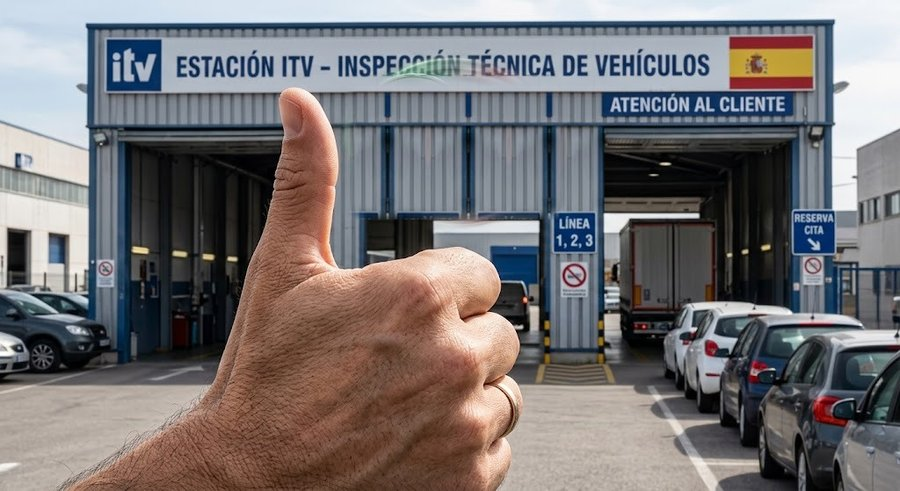
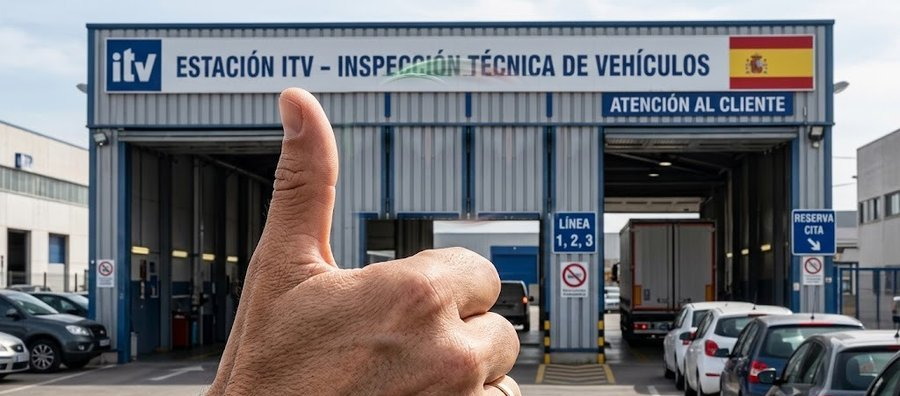
Add files via upload

diff --git a/index.html b/index.html
@@ -1,6 +1,7 @@
 <!DOCTYPE html>
 <html lang="es">
 <head>
+<!-- v613 (09/09/2026): ITV - LA FOTO, MAS PEQUENA Y RECORTADA POR EL ANILLO. JC tras ver la v612: "es muy ancho, tengo que irme muy abajo con el scroll; corta la mano a la altura del anillo y reduce la imagen". TRES COSAS: (1) itv_fondo.jpg pasa de 900x491 a 900x396 (se corta por abajo, por el anillo: fuera el puno y la muneca, se queda el pulgar y la estacion); (2) el bloque .itvFoto baja de 420 a 300px de ancho maximo y la proporcion pasa a 900/396; (3) las dos cajas #dzItv y #dzCita pierden relleno vertical (28 -> 14px) y el min-height. Las posiciones de la moneda van en % del alto, asi que se recalculan por el factor 491/396 para que siga saliendo del pulgar y cayendo en el mismo sitio de la pared. app.js NO cambia. NO requiere SQL. Sube index.html + styles.css + itv_fondo.jpg (LOS TRES: la foto cambia). cache app.js?v=613, styles.css?v=49. VUELTA ATRAS: resubir los tres de la v612 (link css a v=48). -->
 <!-- v612 (09/09/2026): ITV - FOTO REAL CON LA MONEDA APTO / NO APTO EN LAS DOS CAJAS DE SUBIDA. Viaje de diseño con JC en la misma sesion: pidio una mano lanzando una moneda con las dos caras (buena/mala); se probaron mano+moneda, documento+sello, documento+moneda y moneda sola dibujadas en SVG y NO le gusto ninguna (la mano dibujada "horrible"). Al final mando el una FOTO generada (mano con pulgar arriba delante de una estacion de ITV, con dos monedas APTO/NO APTO) y eso si le gusto. COMO ESTA HECHO: (1) fichero NUEVO itv_fondo.jpg en la raiz del repo (900px, ~95 KB): es su foto con las dos monedas pintadas TAPADAS clonando la pared, porque una foto no se puede animar; (2) encima, una moneda HECHA EN HTML/SVG con el mismo estilo (disco metalico, aro y simbolo de neon: verde APTO / rojo NO APTO) con dos caras reales en 3D (backface-visibility + rotateY), asi al girar se ven las dos. REGISTRO DE ITV (dzItv): la moneda sale del pulgar, sube, da TRES vueltas, cae con un rebote ("plin") y se queda con el APTO verde arriba = ITV pasada. Ciclo 6s. PROXIMAS CITAS (dzCita): la misma escena pero la moneda sube al aire y SE QUEDA GIRANDO sin decidirse = la incertidumbre de si la pasara (decision de JC entre tres opciones). Se sustituyen los dos iconos SVG de 120px (portapapeles v416 y balanza v418/v419) por el bloque itvFoto (max 420px de ancho, se adapta al movil). Las clases icBalanza/icBalanzaChapa y sus keyframes se DEJAN en el css sin inquilino (como se hizo con icCampana), por si se quiere volver. Reducir-movimiento: moneda quieta en verde. Las zonas de arrastrar/soltar y los inputs NO cambian. app.js NO cambia (se sube por el cache-buster). NO requiere SQL. Sube index.html + styles.css + itv_fondo.jpg (TRES: hay css y foto nuevos). cache app.js?v=612, styles.css?v=48. VUELTA ATRAS: resubir index.html + styles.css de la v611 (link css de vuelta a v=47; la foto puede quedarse). -->
 <!-- v611 (09/09/2026): ITV - EL USUARIO LOGISTICA (Manuel, socio) YA PUEDE SUBIR ITV Y CREAR CITAS. JC: "esta mirando mi socio Manuel, el usuario logistica, ve las ITV pero no puede subir ni las citas ni el registro... debe poder gestionarlo igual que Marta y Maria del Mar". Causa: la v107AF pone ITV en SOLO LECTURA a todo usuario con Taller que no sea admin (pensado para el mecanico), y la v107H1 hizo una lista blanca SOLO con los ids de Marta y Maria del Mar; Logistica (role gestor, puede_ver_itv=true, puede_ver_taller=true) no estaba y le saltaba el mismo candado. Ahora se anade su id (92687ba2-a91f-401b-b08b-f1231b83dca9, comprobado con SELECT en profiles) a la lista blanca _esOficinaITV. Una sola linea en app.js. El usuario TALLER sigue en solo lectura. NO requiere SQL. node --check OK. cache app.js?v=611. VUELTA ATRAS: resubir app.js + index.html de la v610. -->
 <!-- v610 (08/09/2026): LIQUIDACION CEMEX - NO SALIA AGOSTO EN "Revisar mes". JC: "en CEMEX subi 2 preliq. de agosto y no marca agosto y se pueden ver". Causa: factCargarMeses hacia un .select('mes') simple, que Supabase corta en 1000 filas; con mayo+junio+julio+agosto ya se pasa y agosto se quedaba fuera aunque estuviera guardado (por eso avisaba "ya la tienes subida"). Mismo fallo que Holcim arreglo en v107K15: ahora pagina en lotes de 1000 ordenando por mes y junta los meses. SOLO app.js. NO requiere SQL. node --check OK. cache app.js?v=610. VUELTA ATRAS: resubir app.js + index.html de la v609. -->
@@ -403,7 +404,7 @@ if (typeof pdfjsLib !== 'undefined') {
 <!-- v107K77 (22/06/2026): LEGIBILIDAD — el gris de textos secundarios (--mu) era demasiado oscuro y casi no se leía (ayudas, etiquetas, "Rellenar fecha rápido"...). Aclarado de #527060 a #7d9e8b en styles.css; afecta a toda la app. Reversible. Sube styles.css + index.html (app.js NO cambia). NO requiere SQL. -->
 <!-- v107K84 (23/06/2026): PARPADEO DE LA ZONA DE SOLTAR — CAUSA RAÍZ ENCONTRADA Y ARREGLADA (en el CSS, no en el JS). La zona tiene encima una capa invisible (el input de "clic para seleccionar"). Una regla apagaba esa capa justo al iluminarse la zona, lo que cambiaba el elemento bajo el cursor y hacía oscilar la iluminación → parpadeo continuo. Quitada esa regla (.dz.ov input{pointer-events:none}) en styles.css: ahora la capa se mantiene fija durante el arrastre y NO parpadea. El drop sigue bien (drop() hace preventDefault). Sube styles.css + index.html (app.js NO cambia, sigue v=177). NO requiere SQL. -->
 <!-- v304 (14/07/2026): RECAMBIOS — la IA lee ahora TAMBIÉN NUESTRO CIF (paso 1 del plan "facturas de recambios por email"). Hasta ahora la empresa de un documento de recambios NO se leía del papel: se cogía de la sub-pestaña donde se arrastra (tallerEmpresaActiva). Esto añade un campo nuevo al prompt de callClaudeRecambio ("cif_cliente" = el CIF del destinatario, NOSOTROS; distinto de proveedor_nif, que es el del emisor) y, al subir, COMPARA ese CIF con la sub-pestaña: si el CIF es de otra empresa del grupo avisa por toast y deja nota en Observaciones ("⚠ REVISAR EMPRESA: el CIF de este documento (B90172735) es de TYP2014, pero se ha subido en la pestaña de HISPALIS"); si el CIF no se pudo leer o no es de ninguna de nuestras 4 empresas, deja una nota informativa. NO cambia la empresa por su cuenta (decide Juan Carlos), NO toca la conciliación, NO toca ninguna otra pestaña. Sirve desde el día 1 para cazar facturas subidas en la empresa equivocada, y a la vez comprueba en producción si la IA lee bien el CIF en todos los proveedores — que es el requisito para poder automatizar luego la entrada por correo. Sube app.js + index.html. NO requiere SQL (la nota va en la columna observaciones, que ya existe). node --check OK. cache app.js?v=304. -->
-<link rel="stylesheet" href="styles.css?v=48">
+<link rel="stylesheet" href="styles.css?v=49">
 <!-- v302 (13/07/2026): CONFIRMING BBVA — 2 mejoras del aviso. (1) Al marcar una factura cobrada por confirming, rellena sola el campo OBSERVACIONES con "Confirming BBVA · Liquidación <cesión> · cobrado DD/MM/AAAA" (si ya había una nota, la conserva y añade la del confirming detrás; no pisa nada). (2) El aviso verde (y el ámbar de duplicado) ahora tiene un botón "✓ Visto, cerrar" que lo quita de pantalla cuando ya lo has leído (mini-función _liqCerrar). Solo toca la función de confirming; nada más cambia. Sube app.js + index.html. NO requiere SQL. cache app.js?v=302. -->
 <!-- v301 (13/07/2026): FACTURAS EMITIDAS — COBROS POR CONFIRMING BBVA. Nueva zona verde para ARRASTRAR el justificante de liquidación de BBVA (factoring). La IA lee la tabla "Detalle de los créditos" y marca COBRADAS SOLAS las facturas que casan por NÚMERO + IMPORTE (doble comprobación); fecha de cobro = fecha de liquidación (NO la "fecha pago" del deudor), forma_cobro = "Confirming BBVA". Las que NO casan (no encontrada / importe no cuadra / ambiguas) NO se tocan y se listan en rojo para revisar a mano. Candado anti-duplicados por Nº de cesión (tabla liquidaciones_confirming): si llega la misma liquidación 2 veces, no vuelve a marcar. Casa por CIF+número, así vale igual para CEMEX, Holcim o cualquier deudor por este confirming. NO toca la subida de facturas normal ni nada más. Sube app.js + index.html. REQUIERE SQL previo (columna facturas_emitidas.forma_cobro + tabla liquidaciones_confirming, ya ejecutado). cache app.js?v=301. -->
 <!-- v300 (13/07/2026): RECAMBIOS (Taller) — separación de ~5 cm entre el botón "➕ Subir albarán" (azul) y "🧾 Subir factura" (gris) para no confundirlos con las prisas (margin-left:5cm en el botón de factura). Solo espaciado; no toca nada más. Sube solo index.html (app.js NO cambia, pero al subir el ?v=300 conviene subir también app.js para que el cache-buster cuadre). NO requiere SQL. cache app.js?v=300. -->
@@ -2789,6 +2790,6 @@ if (typeof pdfjsLib !== 'undefined') {
 <!-- v514 (Juan Carlos 11/08/2026): LOS REPASOS GUARDADOS DABAN "Cannot read properties of undefined (reading 'length') AL PULSAR VER O EXCEL. Culpa de la v512: por ahorrar sitio deje fuera de lo guardado los campos que venian vacios (difs, modo, y linea/rec cuando no habia). Pero el informe hace "a.difs.length" y el Excel hace "a.linea.tn" DANDO POR HECHO que existen, asi que al abrir un repaso guardado reventaba y los botones no hacian nada. Un objeto vacio ocupa 2 bytes: no se ahorraba nada y se rompia todo. Desde la v514 lo guardado tiene SIEMPRE la misma forma que lo recien cruzado (difs siempre array, modo siempre texto, linea y rec siempre objeto). IMPORTANTE: los repasos guardados con la v512/v513 se quedaron mal por dentro; hay que volver a cruzar el mes una vez para que se guarde bien. Solo app.js + index.html. NO requiere SQL. -->
 <!-- v515 (Juan Carlos 11/08/2026): TODAS LAS FAMILIAS A LA VISTA. Las pastillas de familia iban en una fila de tabla y salia barra de desplazamiento horizontal: habia que arrastrar para ver las ultimas. Ahora cada repaso es un bloque y las pastillas se reparten en varias lineas, todas visibles de golpe; los botones VER / EXCEL COMPLETO / X tambien bajan de linea si no caben. Va junto con el arreglo de la v514 (que no llego a subirse): los repasos guardados reventaban con "Cannot read properties of undefined (reading length)" porque la v512 dejaba fuera los campos vacios y el Excel hace a.difs.length dando por hecho que existen (traza confirmada por JC: factHolcimExcelPorMaterial linea 25582). Solo app.js + index.html. NO requiere SQL. IMPORTANTE: el repaso guardado con la v512/v513 esta mal por dentro; hay que quitarlo con la X y volver a cruzar el mes una vez. -->
 <!-- v516 (Juan Carlos 11/08/2026): REPARAR AL VUELO LOS REPASOS YA GUARDADOS. La v514/v515 arreglaron como se GUARDA, pero el repaso que JC ya tenia grabado con la v512 seguia mal por dentro y seguia reventando al pulsar EXCEL: solo salia bien "Nucleo Garraf -> Puerto Barcelona", la unica familia sin abonados y por eso la unica que nunca llegaba a la linea que peta (a.difs.length). Obligar a borrarlo con la X y volver a cruzar el mes entero es un apano, no un arreglo. Ahora, al abrir o exportar, lo guardado se REPARA en memoria antes de usarse: se le devuelve la forma que espera el informe (difs array, modo texto, linea y rec objeto). Funcionan igual los repasos nuevos y los viejos, sin que el usuario tenga que hacer nada. Solo app.js + index.html. NO requiere SQL. -->
-<script src="app.js?v=612"></script>
+<script src="app.js?v=613"></script>
 </body>
 </html>

diff --git a/styles.css b/styles.css
@@ -584,10 +584,12 @@ tbody tr.row-warn:hover{background:rgba(245,166,35,.22)}
 #ovTallerMant [style*="font-size:11px"]{font-size:13px !important}
 #ovTallerMant [style*="font-size:12px"]{font-size:13.5px !important}
 #ovTallerMant [style*="font-size:14px"]{font-size:16px !important}
+/* v613: foto recortada por el anillo (900x396) y mas pequena (300px) para que la pestana no ocupe tanto alto */
+#dzItv,#dzCita{padding:14px 28px;min-height:0}
 /* v612: foto real de la ITV con la moneda APTO / NO APTO animada (Registro: cae y se queda en verde; Citas: gira sin decidirse) */
-.itvFoto{position:relative;width:100%;max-width:420px;aspect-ratio:1024/559;margin:0 auto 10px;border-radius:10px;overflow:hidden;box-shadow:0 6px 16px rgba(30,41,51,.18)}
+.itvFoto{position:relative;width:100%;max-width:300px;aspect-ratio:900/396;margin:0 auto 8px;border-radius:10px;overflow:hidden;box-shadow:0 6px 16px rgba(30,41,51,.18)}
 .itvFoto img{display:block;width:100%;height:100%;object-fit:cover}
-.itvCoinMove{position:absolute;width:15.6%;aspect-ratio:1;left:26.4%;top:12.5%}
+.itvCoinMove{position:absolute;width:15.6%;aspect-ratio:1;left:26.4%;top:15.5%}
 .itvCoinSpin{position:relative;width:100%;height:100%}
 .itvCoinFace{position:absolute;inset:0;transform:scaleX(1)}
 .itvCoinFace svg{width:100%;height:100%;display:block;filter:drop-shadow(0 4px 6px rgba(0,0,0,.45))}
@@ -597,15 +599,15 @@ tbody tr.row-warn:hover{background:rgba(245,166,35,.22)}
 .itvFotoReg .itvCoinFace{animation:itvRegCaraA 6s ease-in-out infinite}
 .itvFotoReg .itvCoinBack{animation:itvRegCaraB 6s ease-in-out infinite}
 @keyframes itvRegMueve{
-  0%,6%{left:26.4%;top:12.5%}
-  13.5%{left:28.5%;top:7.4%}
-  20%{left:30.3%;top:3.7%}
-  33%{left:34%;top:.9%}
-  46%{left:37.6%;top:5%}
-  53%{left:39.5%;top:9.6%}
-  60%{left:41.5%;top:15.2%}
-  66%{left:41.5%;top:12%}
-  72%,100%{left:41.5%;top:15.2%}
+  0%,6%{left:26.4%;top:15.5%}
+  13.5%{left:28.5%;top:9.2%}
+  20%{left:30.3%;top:4.6%}
+  33%{left:34%;top:1.1%}
+  46%{left:37.6%;top:6.2%}
+  53%{left:39.5%;top:11.9%}
+  60%{left:41.5%;top:18.8%}
+  66%{left:41.5%;top:14.9%}
+  72%,100%{left:41.5%;top:18.8%}
 }
 @keyframes itvRegCaraA{0%{transform:scaleX(1)}6%{transform:scaleX(1)}10.5%{transform:scaleX(0)}19.5%{transform:scaleX(0)}24.0%{transform:scaleX(1)}28.5%{transform:scaleX(0)}37.5%{transform:scaleX(0)}42.0%{transform:scaleX(1)}46.5%{transform:scaleX(0)}55.5%{transform:scaleX(0)}60.0%{transform:scaleX(1)}100%{transform:scaleX(1)}}
 @keyframes itvRegCaraB{0%{transform:scaleX(0)}6%{transform:scaleX(0)}10.5%{transform:scaleX(0)}15.0%{transform:scaleX(1)}19.5%{transform:scaleX(0)}28.5%{transform:scaleX(0)}33.0%{transform:scaleX(1)}37.5%{transform:scaleX(0)}46.5%{transform:scaleX(0)}51.0%{transform:scaleX(1)}55.5%{transform:scaleX(0)}100%{transform:scaleX(0)}}
@@ -613,13 +615,13 @@ tbody tr.row-warn:hover{background:rgba(245,166,35,.22)}
 .itvFotoCita .itvCoinMove{animation:itvCitaSube 1.2s ease-out forwards,itvCitaFlota 3s ease-in-out 1.2s infinite}
 .itvFotoCita .itvCoinFace{animation:itvCitaCaraA 1.4s ease-in-out infinite}
 .itvFotoCita .itvCoinBack{animation:itvCitaCaraB 1.4s ease-in-out infinite}
-@keyframes itvCitaSube{from{left:26.4%;top:12.5%}to{left:41%;top:6%}}
+@keyframes itvCitaSube{from{left:26.4%;top:15.5%}to{left:41%;top:7.4%}}
 @keyframes itvCitaFlota{0%,100%{translate:0 0}50%{translate:0 -7%}}
 @keyframes itvCitaCaraA{0%{transform:scaleX(1)}25%{transform:scaleX(0)}75%{transform:scaleX(0)}100%{transform:scaleX(1)}}
 @keyframes itvCitaCaraB{0%{transform:scaleX(0)}25%{transform:scaleX(0)}50%{transform:scaleX(1)}75%{transform:scaleX(0)}100%{transform:scaleX(0)}}
 .dz:hover .itvFotoReg .itvCoinMove,.dz:hover .itvFotoReg .itvCoinFace{animation-duration:3.5s}
 @media (prefers-reduced-motion:reduce){
-  .itvFotoReg .itvCoinMove,.itvFotoCita .itvCoinMove{animation:none;left:41.5%;top:15.2%}
+  .itvFotoReg .itvCoinMove,.itvFotoCita .itvCoinMove{animation:none;left:41.5%;top:18.8%}
   .itvFotoReg .itvCoinFace,.itvFotoCita .itvCoinFace{animation:none;transform:scaleX(1)}
   .itvFotoReg .itvCoinBack,.itvFotoCita .itvCoinBack{animation:none;transform:scaleX(0)}
 }
